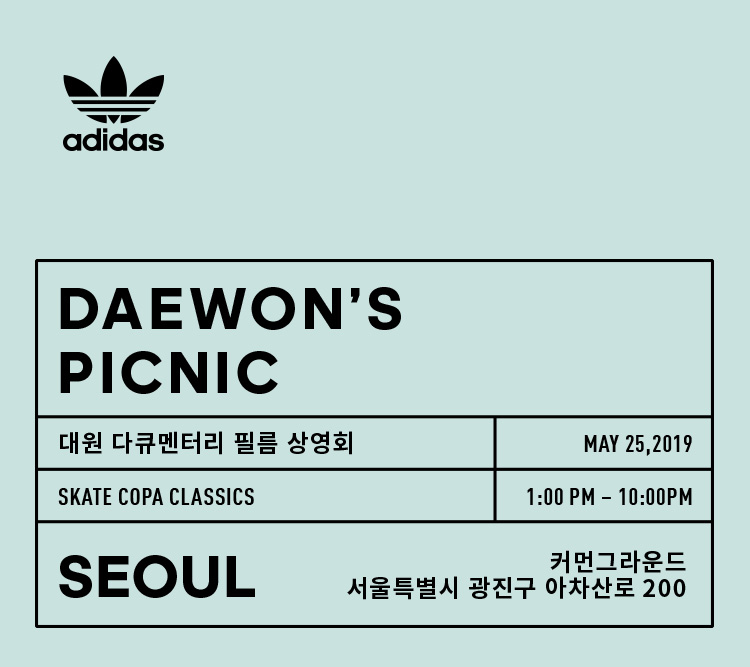
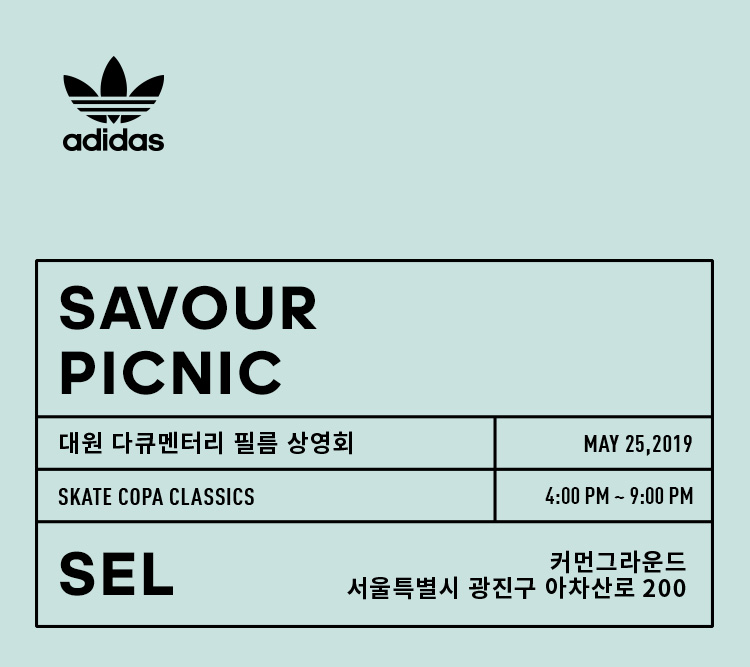
adi_cp_thisisseoul 0522

Changed region(s): [[0.0613, 0.4198, 0.552, 0.5997], [0.0613, 0.8096, 0.3373, 0.8996], [0.7053, 0.7196, 0.92, 0.7796]]

diff --git a/mobile/html/adidas/2019/event/keycity/1904/build/index.html b/mobile/html/adidas/2019/event/keycity/1904/build/index.html
@@ -493,7 +493,7 @@
                                     이야기가 펼쳐진다</h2>
                                 <p>'DAEWON' PREMIERE in SEOUL</p>
                                 <div class="date_info">
-                                    <span>May 25, 2019 / 13:00 ~ 22:00 / 커먼그라운드</span>
+                                    <span>May 25, 2019 / 16:00 ~ 21:00 / 커먼그라운드</span>
                                 </div>
                             </div>
                         </div>

diff --git a/mobile/html/adidas/2019/event/keycity/1904/index.html b/mobile/html/adidas/2019/event/keycity/1904/index.html
@@ -491,7 +491,7 @@
                                     이야기가 펼쳐진다</h2>
                                 <p>'DAEWON' PREMIERE in SEOUL</p>
                                 <div class="date_info">
-                                    <span>May 25, 2019 / 13:00 ~ 22:00 / 커먼그라운드</span>
+                                    <span>May 25, 2019 / 16:00 ~ 21:00 / 커먼그라운드</span>
                                 </div>
                             </div>
                         </div>

diff --git a/mobile/html/adidas/pn/thisisseoul.html b/mobile/html/adidas/pn/thisisseoul.html
@@ -47,7 +47,7 @@
                                     이야기가 펼쳐진다</h2>
                                 <p>'DAEWON' PREMIERE in SEOUL</p>
                                 <div class="date_info">
-                                    <span>May 25, 2019 / 13:00 ~ 22:00 / 커먼그라운드</span>
+                                    <span>May 25, 2019 / 16:00 ~ 21:00 / 커먼그라운드</span>
                                 </div>
                             </div>
                         </div>
